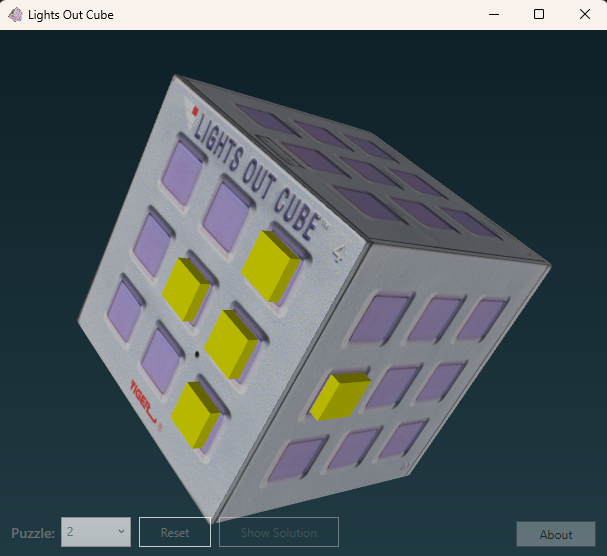
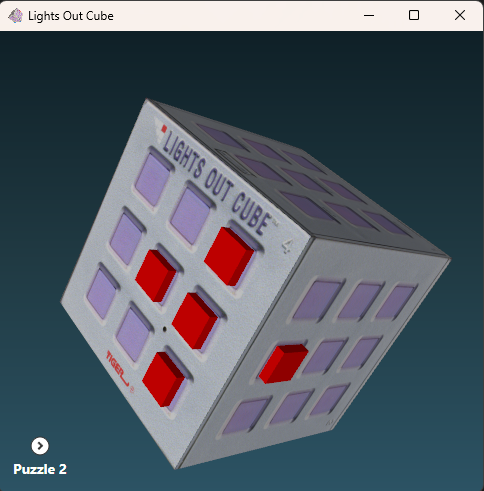
Fix Sonar issues

diff --git a/src/MainWindow.xaml.cs b/src/MainWindow.xaml.cs
@@ -28,7 +28,7 @@ namespace LightsOutCube
 
         private Trackball _trackball;
 
-        private Material _yellowMaterial;
+        private Material _litMaterial;
         private Material _offTransparentMaterial;
 
         // store handlers so we can unsubscribe on unload
@@ -122,7 +122,7 @@ namespace LightsOutCube
             };
             // Initialize lit material from ViewModel selection (fallback to yellow)
             var initialBrush = _viewModel?.SelectedLitBrush ?? new SolidColorBrush(Colors.Yellow);
-            _yellowMaterial = new DiffuseMaterial(initialBrush);
+            _litMaterial = new DiffuseMaterial(initialBrush);
             _offTransparentMaterial = (Material)System.Windows.Application.Current.Resources["TransparentMaterial"];
 
             // solution material (distinct, can tweak color)
@@ -153,10 +153,10 @@ namespace LightsOutCube
         {
             try
             {
-                var old = _yellowMaterial;
+                var old = _litMaterial;
                 var brush = _viewModel?.SelectedLitBrush ?? new SolidColorBrush(Colors.Yellow);
                 var newMat = new DiffuseMaterial(brush);
-                _yellowMaterial = newMat;
+                _litMaterial = newMat;
 
                 // Update any currently lit cells to the new material
                 if (_viewModel?.CellsByIndex != null)
@@ -167,7 +167,7 @@ namespace LightsOutCube
                         var model3D = kvp.Value;
                         if (_viewModel.CellsByIndex.TryGetValue(idx, out var cell) && cell.IsOn)
                         {
-                            try { model3D.Material = _yellowMaterial; } catch { }
+                            model3D.Material = _litMaterial;
                         }
                     }
                 }
@@ -176,7 +176,7 @@ namespace LightsOutCube
                 var keys = _originalMaterials.Where(kv => ReferenceEquals(kv.Value, old)).Select(kv => kv.Key).ToList();
                 foreach (var k in keys)
                 {
-                    _originalMaterials[k] = _yellowMaterial;
+                    _originalMaterials[k] = _litMaterial;
                 }
             }
             catch (Exception ex)
@@ -200,7 +200,7 @@ namespace LightsOutCube
 
                 // apply initial state
                 model3D.Material = cell.IsOn
-                    ? _yellowMaterial
+                    ? _litMaterial
                     : _offTransparentMaterial;
 
                 // subscribe to changes and update material on UI thread
@@ -209,7 +209,7 @@ namespace LightsOutCube
                     if (e.PropertyName != nameof(cell.IsOn)) return;
                     Application.Current.Dispatcher.Invoke(() =>
                     {
-                        model3D.Material = cell.IsOn ? _yellowMaterial : _offTransparentMaterial;
+                        model3D.Material = cell.IsOn ? _litMaterial : _offTransparentMaterial;
                     });
                 };
 
@@ -484,7 +484,7 @@ namespace LightsOutCube
                 Material final = _offTransparentMaterial;
                 if (_viewModel?.CellsByIndex != null && _viewModel.CellsByIndex.TryGetValue(index, out var cell))
                 {
-                    final = cell.IsOn ? _yellowMaterial : _offTransparentMaterial;
+                    final = cell.IsOn ? _litMaterial : _offTransparentMaterial;
                 }
 
                 if (_cubesByIndex.TryGetValue(index, out var model3D))

diff --git a/src/Model/ScoreStore.cs b/src/Model/ScoreStore.cs
@@ -9,7 +9,7 @@ using System.Threading;
 
 namespace LightsOutCube.Model
 {
-    public class ScoreStore
+    public static class ScoreStore
     {
         private static readonly string DirectoryPath =
             Path.Combine(Environment.GetFolderPath(Environment.SpecialFolder.LocalApplicationData), "LightsOutCube");
